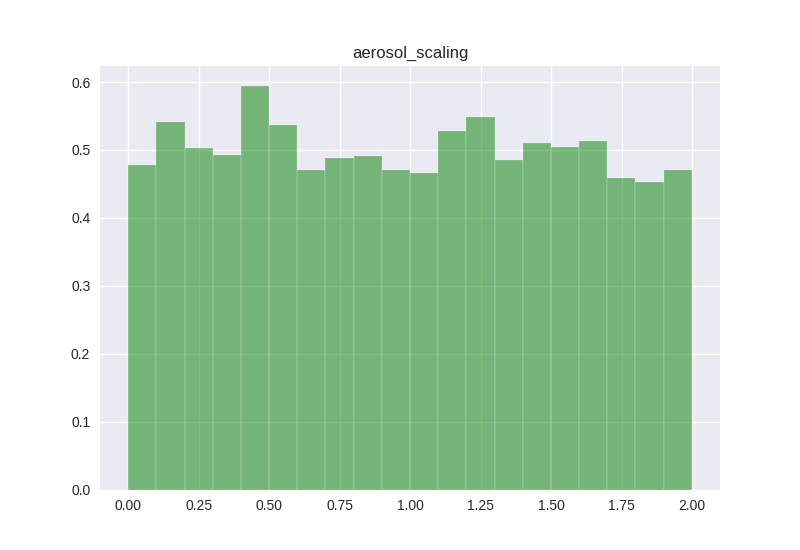
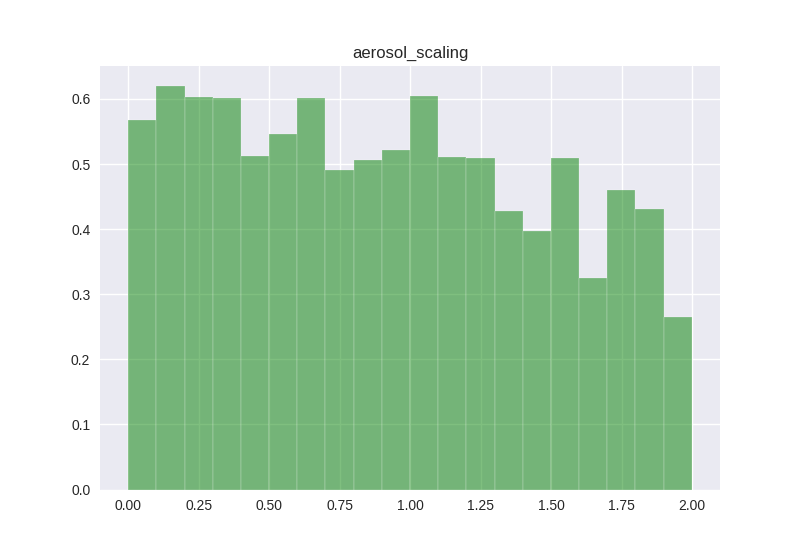
Added more plots

diff --git a/fortran/coupled_model.py b/fortran/coupled_model.py
@@ -69,13 +69,13 @@ class CoupledModel:
 		#self.sigma_ar = parameter('sigma_ar')
 		self.sigma_ar = values[4]
 		#self.climate_sensitivity = parameter('climate_sensitivity')
-		self.climate_sensitivity = values[3]
+		self.climate_sensitivity = values[5]
 		#self.ocean_vertical_diffusivity = parameter('ocean_vertical_diffusivity')
-		self.ocean_vertical_diffusivity = values[4]
+		self.ocean_vertical_diffusivity = values[6]
 		#self.aerosol_scaling = parameter('aerosol_scaling')
-		self.aerosol_scaling = values[5]
+		self.aerosol_scaling = values[7]
 		#self.T_0 = parameter('T_0')
-		self.T_0 = values[6]
+		self.T_0 = values[8]
 		#self.sigma_T = parameter('sigma_T')
 		self.sigma_T = values[9]
 		#self.rho_T = parameter('rho_T')
@@ -86,9 +86,6 @@ class CoupledModel:
 		#self.stepsizes = {'alpha': .01, 'Teq': .05, 'S0': 5, 'climate_sensitivity': 0.16, 'ocean_vertical_diffusivity': 0.17, 'aerosol_scaling': 0.025, 'T_0': 0.03}
 		
 	def update_cov(self, X, s_d, size):
-		#a = []
-		#for i in range(size):
-		#	a.append(X[:,i])
 		a = np.array(X)
 		a = a.T
 		cov = np.cov(a)
@@ -112,8 +109,8 @@ class CoupledModel:
 		if (self.ocean_vertical_diffusivity): log_prior +=  stats.uniform.logpdf(theta[6], loc = 0.1, scale = 3.9)
 		if (self.aerosol_scaling): log_prior +=  stats.uniform.logpdf(theta[7], loc = 0, scale = 2)
 		if (self.T_0): log_prior +=  stats.uniform.logpdf(theta[8], loc = -0.3, scale = 0.6)
-		if (self.sigma_T): log_prior +=  stats.uniform.logpdf(theta[9], loc = 0.05, scale = 5.05)
-		if (self.rho_T): log_prior +=  stats.uniform.logpdf(theta[10], loc =  0.0001, scale = 0.999)
+		if (self.sigma_T): log_prior +=  stats.uniform.logpdf(theta[9], loc = 0.05, scale = 4.95)
+		if (self.rho_T): log_prior +=  stats.uniform.logpdf(theta[10], loc =  0, scale = 0.999)
 		#print(log_prior)
 		return log_prior
 
@@ -178,6 +175,17 @@ class CoupledModel:
 		part5 = eps*Id
 		cov = part1 + (Sd/t)*(part2 - part3 + part4 + part5)
 		return 0.5*(cov + np.transpose(cov)), m1
+
+	def diagnostic(self, mcmc_chains):
+		N = len(mcmc_chains[0])
+		m = len(mcmc_chains)
+		s_j = [np.var(mcmc_chains[i]) for i in range(m)]
+		W = 1 / m * np.sum(s_j)
+		global_mean = np.mean([np.mean(mcmc_chains[i]) for i in range(m)])
+		B = N / (m - 1) * np.sum([(np.mean(mcmc_chains[i]) - global_mean)**2
+				      for i in range(m)])
+		Var = (1 - 1/N)*W + 1/N*B
+		return np.sqrt(Var/W)
 	
 	def chain(self, deltat, N=10000):
 		theta = np.array(self.values)
@@ -207,7 +215,7 @@ class CoupledModel:
 			#theta_new[10] = 0.55
 			temp_out, heatflux_mixed_out, heatflux_interior_out, gmsl_out = \
 			doeclim_gmsl(asc = theta[7], t2co_in = theta[5], kappa_in=theta[8], alphasl_in = theta[0], Teq = theta[1], SL0 = theta[2]) 
-			temp_out += theta[6]
+			temp_out += theta[8]
 			lp_new = self.logp(theta_new, deltat, temp_out, gmsl_out)
 			if np.isinf(lp_new):
 				mcmc_chains[i,:] = theta
@@ -237,11 +245,19 @@ values = [3.4, -0.5, -100, .5, 3, 3.1, 3.5, 1.1, -0.06, 0.1, 0.55]
 CM = CoupledModel(values)
 
 mcmc_chain,accept_rate = CM.chain(1, NUMBER)
-
+print(accept_rate)
 pamnames = ['alpha', 'Teq', 'S0', 'rho', 'sigma_ar', 'climate_sensitivity', 'ocean_vertical_diffusivity', 'aerosol_scaling', 'T_0', 'sigma_T', 'rho_T']
 #pamnames = ['alpha', 'Teq', 'sigma_ar', 'climate_sensitivity', 'ocean_vertical_diffusivity', 'aerosol_scaling', 'T_0']
 
 #print(mcmc_chain[:200,0])
+
+if NUMBER >= 50000:
+	temp_chain1 = mcmc_chain[30000:40000]
+	temp_chain2 = mcmc_chain[40000:]
+	conv = CM.diagnostic([temp_chain1, temp_chain2])
+	mcmc_chain = mcmc_chain[40000:]
+
+print(conv)
 
 for i in range(11):
 	fig, ax = plt.subplots(nrows=1, ncols=1 )  # create figure & 1 axis
